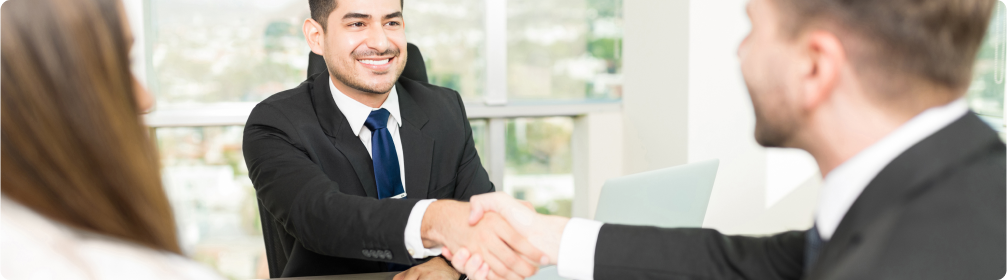
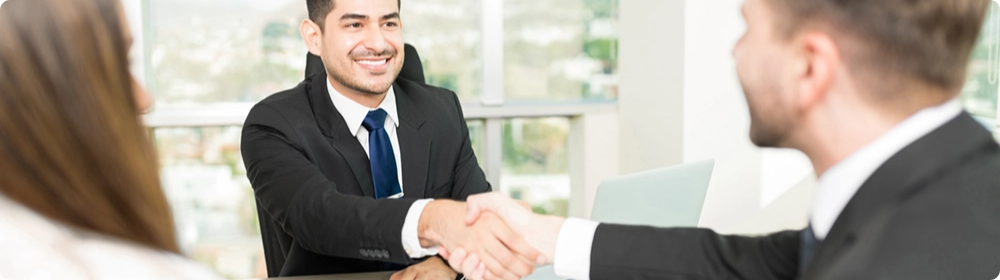
change styles and images routes

diff --git a/src/pages/Home/sections/Hero/index.tsx b/src/pages/Home/sections/Hero/index.tsx
@@ -3,7 +3,7 @@ import { FC, useEffect, useRef, useState } from "react";
 import data from "./dataSlider.json";
 import { TextBanner } from "../../../../components/TextBanner";
 
-interface dataProps {
+interface DataProps {
   id: number;
   url: string;
   text: string;
@@ -46,7 +46,7 @@ export const Hero: FC = () => {
 
   return (
     <section
-      className="overflow-hidden max-w-5xl w-full m-auto h-auto mt-12"
+      className="overflow-hidden max-w-5xl w-full m-auto h-auto mt-64"
       onMouseEnter={() => setIsHovered(true)}
       onMouseLeave={() => setIsHovered(false)}
       ref={bannerRef}
@@ -57,7 +57,7 @@ export const Hero: FC = () => {
         }`}
         style={{ transform: `translateX(-${currentIndex * 100}%)` }}
       >
-        {data.map((item: dataProps) => (
+        {data.map((item: DataProps) => (
           <div key={item.id} className={`w-full flex-shrink-0 relative`}>
             <img
               src={item.url}

diff --git a/src/components/Header/index.tsx b/src/components/Header/index.tsx
@@ -3,7 +3,7 @@ import { jynWhite, whatsApp } from "../../assets/shared";
 
 export const Header: FC = () => {
   return (
-    <header className="flex justify-around items-center sticky top-0 w-full bg-main z-40">
+    <header className="flex justify-around items-center fixed top-0 w-full bg-main z-40">
       <div>
         <img
           src={jynWhite}
